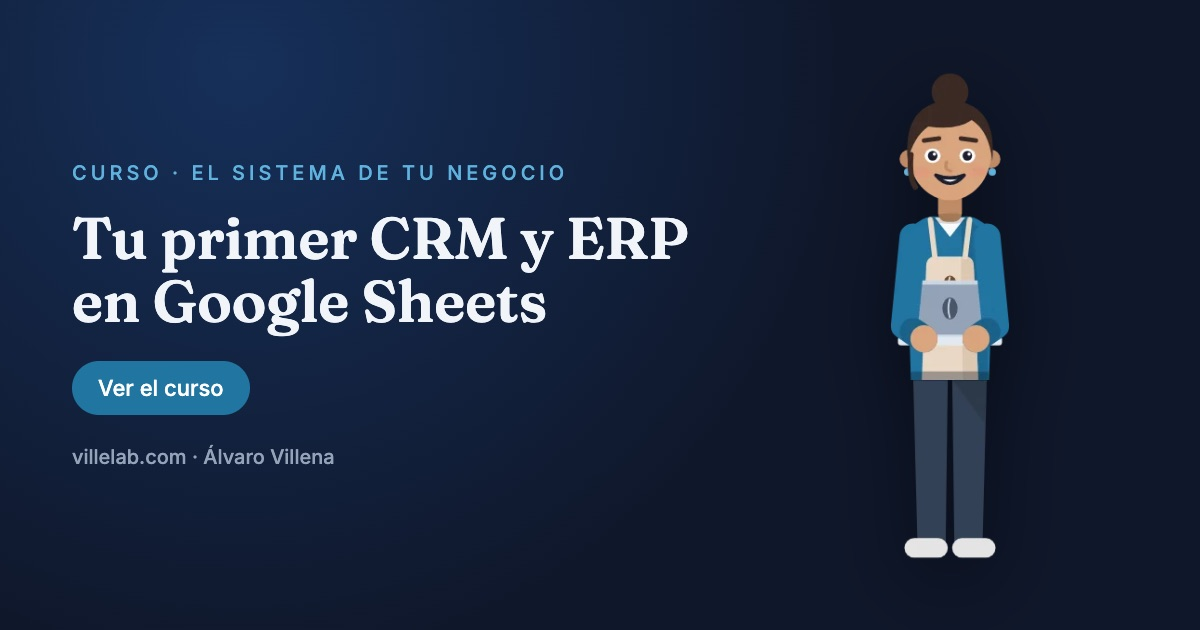
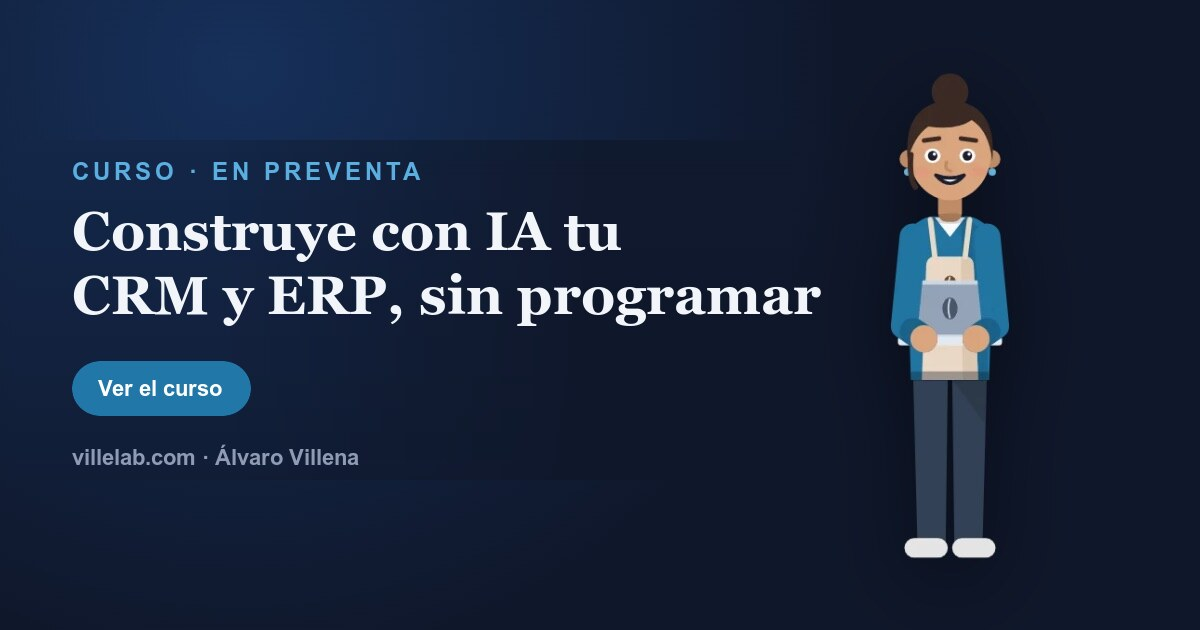
curso: prompts en el área de miembros, puente 5 h/6 semanas, nombre del video, textos con tu IA, OG nuevo

diff --git a/lib/productos/curso/curso.ts b/lib/productos/curso/curso.ts
@@ -42,7 +42,7 @@ export const CURSO = {
   /** Nombre completo para metadata, certificado y referencias desde otros productos. */
   nombreCompleto: 'Construye con IA tu sistema de gestión CRM y ERP para tu negocio, sin programar en 5 horas',
   promesa:
-    'En 6 semanas armas el sistema de tu negocio en una planilla que ya sabes usar: tus clientes y en qué va cada uno, de dónde llegan, los pedidos, la atención, la cobranza y la caja, conectados en un tablero que revisas los lunes en 10 minutos.',
+    'En 6 semanas, con 5 horas de lecciones y tu hoja a tu ritmo, armas con IA (con prompts listos para pegar) el sistema de tu negocio en una planilla que ya sabes usar: tus clientes y en qué va cada uno, de dónde llegan, los pedidos, la atención, la cobranza y la caja, conectados en un tablero que revisas los lunes en 10 minutos.',
   noEsSoftware:
     'No es un software ni una suscripción: es una planilla bien armada, con las fórmulas listas, y rutinas cortas para que el negocio no dependa de tu memoria.',
   formato: [
@@ -69,7 +69,7 @@ export const QUE_ES = {
 
 /** 12-nov-2026 (Álvaro, WA 18:03): el título del curso lleva «con IA»; la IA arma el sistema con los prompts de cada módulo. */
 export const IA_OPCIONAL =
-  'La IA te ayuda a armarlo: cada módulo trae prompts listos para pegar en ChatGPT, Claude o Gemini (tu hoja, las fórmulas, tus mensajes), y los recibes junto con el módulo. No necesitas programar ni saber de IA, y lo que te devuelva lo revisas tú antes de usarlo.';
+  'La IA te ayuda a armarlo: cada módulo trae prompts listos para pegar en ChatGPT, Claude o Gemini (tu hoja, las fórmulas, tus mensajes), y los recibes en tu área de miembros. No necesitas programar ni saber de IA, y lo que te devuelva lo revisas tú antes de usarlo.';
 
 export const CASO = {
   nombre: 'Grano Norte',
@@ -359,7 +359,7 @@ export const FAQ: { p: string; r: string }[] = [
   },
   {
     p: '¿Tengo que saber de inteligencia artificial o de programación?',
-    r: 'No. Cada módulo trae prompts listos: textos para pegar en ChatGPT, Claude o Gemini (la versión gratis sirve) que recibes junto con el módulo (el 0 hoy, uno nuevo cada semana) y te ayudan a armar tu hoja, las fórmulas y tus mensajes. Cambias los datos por los de tu negocio y revisas lo que te devuelva antes de usarlo. Si prefieres no usar IA, la planilla y las plantillas funcionan igual.',
+    r: 'No. Cada módulo trae prompts listos: textos para pegar en ChatGPT, Claude o Gemini (la versión gratis sirve) que recibes en tu área de miembros (los del módulo 0 hoy, y los de cada módulo junto con el módulo) y te ayudan a armar tu hoja, las fórmulas y tus mensajes. Cambias los datos por los de tu negocio y revisas lo que te devuelva antes de usarlo. Si prefieres no usar IA, la planilla y las plantillas funcionan igual.',
   },
   {
     p: '¿Qué recibo al comprar en preventa?',

diff --git a/components/productos/curso/CursoContent.tsx b/components/productos/curso/CursoContent.tsx
@@ -223,7 +223,7 @@ export default function CursoContent() {
             </h1>
             {/* A · control */}
             <div className="exp13-A">
-              <p className="mt-3 max-w-xl text-base text-slate-300 sm:text-lg">5 horas de lecciones en 7 módulos con prompts listos para tu IA; tú armas tu hoja a tu ritmo (2 a 3 h por semana). El módulo 0 es gratis hoy.</p>
+              <p className="mt-3 max-w-xl text-base text-slate-300 sm:text-lg">5 horas de lecciones en 7 módulos con textos listos para pegar en tu IA (prompts); tú armas tu hoja a tu ritmo (2 a 3 h por semana). El módulo 0 es gratis hoy.</p>
               <div className="mt-5 flex flex-col gap-3 sm:flex-row sm:flex-wrap sm:items-center">
                 <BotonCompra ubicacion="hero" />
                 {/* En celular se oculta aquí (se repite en el programa y al final): un solo botón en el primer pantallazo. */}
@@ -233,7 +233,7 @@ export default function CursoContent() {
             </div>
             {/* B · «módulo 0 primero»: el botón principal es gratis; abajo, el formulario a la vista. */}
             <div className="exp13-B">
-              <p className="mt-3 max-w-xl text-base text-slate-300 sm:text-lg">5 horas de lecciones en 7 módulos con prompts listos para tu IA; tú armas tu hoja a tu ritmo (2 a 3 h por semana). El módulo 0 es gratis.</p>
+              <p className="mt-3 max-w-xl text-base text-slate-300 sm:text-lg">5 horas de lecciones en 7 módulos con textos listos para pegar en tu IA (prompts); tú armas tu hoja a tu ritmo (2 a 3 h por semana). El módulo 0 es gratis.</p>
               <div className="mt-5 flex flex-col gap-3 sm:flex-row sm:flex-wrap sm:items-center">
                 <Link
                   href="#parte-gratis-hero"
@@ -287,7 +287,7 @@ export default function CursoContent() {
         <p className="mt-6 max-w-3xl text-slate-300">{CURSO.promesa}</p>
         <p className="mt-3 max-w-3xl text-sm text-slate-400">{CURSO.noEsSoftware}</p>
         {/* Video 8 · venta de la preventa (regrabado con el enfoque CRM/ERP, 8-nov-2026). */}
-        <VideoMarco id="v08-curso-venta" titulo="Tu primer CRM y ERP, en 6 semanas" duracion="49 s" className="mt-10" />
+        <VideoMarco id="v08-curso-venta" titulo="Construye con IA tu sistema CRM y ERP" duracion="49 s" className="mt-10" />
       </section>
 
       {/* Para quién */}

diff --git a/app/(productos)/curso/modulo-6/page.tsx b/app/(productos)/curso/modulo-6/page.tsx
@@ -7,7 +7,7 @@ import { SITE_URL } from '@/lib/productos/seo';
 // para que al compartir el link no herede la tarjeta ni la URL de la portada del sitio.
 export const metadata: Metadata = {
   title: 'Módulo 6 · El tablero que lo junta todo',
-  description: 'Módulo 6 del curso «El sistema de tu negocio: tu primer CRM y ERP en Google Sheets»: tus números del lunes, cómo se conectan las hojas, compartir la planilla con tu equipo, tus rutinas y cuándo pasar a un software. Proyecto final: tu ERP en Google Sheets con su tablero.',
+  description: 'Módulo 6 del curso «Construye con IA tu sistema de gestión CRM y ERP»: tus números del lunes, cómo se conectan las hojas, compartir la planilla con tu equipo, tus rutinas y cuándo pasar a un software. Proyecto final: tu ERP en Google Sheets con su tablero.',
   robots: { index: false, follow: false },
   alternates: { canonical: `${SITE_URL}/curso/modulo-6` },
   openGraph: {
@@ -15,7 +15,7 @@ export const metadata: Metadata = {
     locale: 'es_CL',
     siteName: 'Villelab',
     title: 'Módulo 6 · El tablero que lo junta todo',
-    description: 'Módulo 6 del curso «El sistema de tu negocio: tu primer CRM y ERP en Google Sheets»: tus números del lunes, cómo se conectan las hojas, compartir la planilla con tu equipo, tus rutinas y cuándo pasar a un software. Proyecto final: tu ERP en Google Sheets con su tablero.',
+    description: 'Módulo 6 del curso «Construye con IA tu sistema de gestión CRM y ERP»: tus números del lunes, cómo se conectan las hojas, compartir la planilla con tu equipo, tus rutinas y cuándo pasar a un software. Proyecto final: tu ERP en Google Sheets con su tablero.',
     url: `${SITE_URL}/curso/modulo-6`,
     images: [{ url: `${SITE_URL}/og/curso.jpg`, width: 1200, height: 630, alt: 'El sistema de tu negocio · módulo 6' }],
   },

diff --git a/app/(productos)/curso/modulo-5/page.tsx b/app/(productos)/curso/modulo-5/page.tsx
@@ -7,7 +7,7 @@ import { SITE_URL } from '@/lib/productos/seo';
 // para que al compartir el link no herede la tarjeta ni la URL de la portada del sitio.
 export const metadata: Metadata = {
   title: 'Módulo 5 · Cobrar a tiempo y saber cuánta plata tienes',
-  description: 'Módulo 5 del curso «El sistema de tu negocio: tu primer CRM y ERP en Google Sheets»: la hoja Cobranza con recordatorios, la hoja Caja con el saldo al día, tu caja de las próximas 4 semanas y el margen de tus productos.',
+  description: 'Módulo 5 del curso «Construye con IA tu sistema de gestión CRM y ERP»: la hoja Cobranza con recordatorios, la hoja Caja con el saldo al día, tu caja de las próximas 4 semanas y el margen de tus productos.',
   robots: { index: false, follow: false },
   alternates: { canonical: `${SITE_URL}/curso/modulo-5` },
   openGraph: {
@@ -15,7 +15,7 @@ export const metadata: Metadata = {
     locale: 'es_CL',
     siteName: 'Villelab',
     title: 'Módulo 5 · Cobrar a tiempo y saber cuánta plata tienes',
-    description: 'Módulo 5 del curso «El sistema de tu negocio: tu primer CRM y ERP en Google Sheets»: la hoja Cobranza con recordatorios, la hoja Caja con el saldo al día, tu caja de las próximas 4 semanas y el margen de tus productos.',
+    description: 'Módulo 5 del curso «Construye con IA tu sistema de gestión CRM y ERP»: la hoja Cobranza con recordatorios, la hoja Caja con el saldo al día, tu caja de las próximas 4 semanas y el margen de tus productos.',
     url: `${SITE_URL}/curso/modulo-5`,
     images: [{ url: `${SITE_URL}/og/curso.jpg`, width: 1200, height: 630, alt: 'El sistema de tu negocio · módulo 5' }],
   },

diff --git a/app/(productos)/curso/modulo-4/page.tsx b/app/(productos)/curso/modulo-4/page.tsx
@@ -7,7 +7,7 @@ import { SITE_URL } from '@/lib/productos/seo';
 // para que al compartir el link no herede la tarjeta ni la URL de la portada del sitio.
 export const metadata: Metadata = {
   title: 'Módulo 4 · Responder a tiempo y que vuelvan a comprar',
-  description: 'Módulo 4 del curso «El sistema de tu negocio»: los 3 tipos de mensaje, respuestas listas en WhatsApp Business, la hoja Atención con cada caso hasta cerrarlo, cuándo pasa a una persona y la postventa.',
+  description: 'Módulo 4 del curso «Construye con IA tu sistema de gestión CRM y ERP»: los 3 tipos de mensaje, respuestas listas en WhatsApp Business, la hoja Atención con cada caso hasta cerrarlo, cuándo pasa a una persona y la postventa.',
   robots: { index: false, follow: false },
   alternates: { canonical: `${SITE_URL}/curso/modulo-4` },
   openGraph: {
@@ -15,7 +15,7 @@ export const metadata: Metadata = {
     locale: 'es_CL',
     siteName: 'Villelab',
     title: 'Módulo 4 · Responder a tiempo y que vuelvan a comprar',
-    description: 'Módulo 4 del curso «El sistema de tu negocio»: los 3 tipos de mensaje, respuestas listas en WhatsApp Business, la hoja Atención con cada caso hasta cerrarlo, cuándo pasa a una persona y la postventa.',
+    description: 'Módulo 4 del curso «Construye con IA tu sistema de gestión CRM y ERP»: los 3 tipos de mensaje, respuestas listas en WhatsApp Business, la hoja Atención con cada caso hasta cerrarlo, cuándo pasa a una persona y la postventa.',
     url: `${SITE_URL}/curso/modulo-4`,
     images: [{ url: `${SITE_URL}/og/curso.jpg`, width: 1200, height: 630, alt: 'El sistema de tu negocio · módulo 4' }],
   },

diff --git a/app/(productos)/curso/modulo-3/page.tsx b/app/(productos)/curso/modulo-3/page.tsx
@@ -7,7 +7,7 @@ import { SITE_URL } from '@/lib/productos/seo';
 // para que al compartir el link no herede la tarjeta ni la URL de la portada del sitio.
 export const metadata: Metadata = {
   title: 'Módulo 3 · Cada pedido, en una fila',
-  description: 'Módulo 3 del curso «El sistema de tu negocio»: tus procesos escritos en pasos, la hoja Pedidos con cada pedido en una fila, el checklist de entrega, el estado de cada pedido y el resumen del día en 5 minutos.',
+  description: 'Módulo 3 del curso «Construye con IA tu sistema de gestión CRM y ERP»: tus procesos escritos en pasos, la hoja Pedidos con cada pedido en una fila, el checklist de entrega, el estado de cada pedido y el resumen del día en 5 minutos.',
   robots: { index: false, follow: false },
   alternates: { canonical: `${SITE_URL}/curso/modulo-3` },
   openGraph: {
@@ -15,7 +15,7 @@ export const metadata: Metadata = {
     locale: 'es_CL',
     siteName: 'Villelab',
     title: 'Módulo 3 · Cada pedido, en una fila',
-    description: 'Módulo 3 del curso «El sistema de tu negocio»: tus procesos escritos en pasos, la hoja Pedidos con cada pedido en una fila, el checklist de entrega, el estado de cada pedido y el resumen del día en 5 minutos.',
+    description: 'Módulo 3 del curso «Construye con IA tu sistema de gestión CRM y ERP»: tus procesos escritos en pasos, la hoja Pedidos con cada pedido en una fila, el checklist de entrega, el estado de cada pedido y el resumen del día en 5 minutos.',
     url: `${SITE_URL}/curso/modulo-3`,
     images: [{ url: `${SITE_URL}/og/curso.jpg`, width: 1200, height: 630, alt: 'El sistema de tu negocio · módulo 3' }],
   },

diff --git a/app/(productos)/curso/modulo-1/page.tsx b/app/(productos)/curso/modulo-1/page.tsx
@@ -7,7 +7,7 @@ import { SITE_URL } from '@/lib/productos/seo';
 // para que al compartir el link no herede la tarjeta ni la URL de la portada del sitio.
 export const metadata: Metadata = {
   title: 'Módulo 1 · Tu primer CRM: ningún cliente se te pierde',
-  description: 'Módulo 1 del curso «El sistema de tu negocio»: tu hoja Clientes (tu primer CRM en Google Sheets), mensajes de seguimiento, la propuesta de una página y tu embudo contado desde la planilla.',
+  description: 'Módulo 1 del curso «Construye con IA tu sistema de gestión CRM y ERP»: tu hoja Clientes (tu primer CRM en Google Sheets), mensajes de seguimiento, la propuesta de una página y tu embudo contado desde la planilla.',
   robots: { index: false, follow: false },
   alternates: { canonical: `${SITE_URL}/curso/modulo-1` },
   openGraph: {
@@ -15,7 +15,7 @@ export const metadata: Metadata = {
     locale: 'es_CL',
     siteName: 'Villelab',
     title: 'Módulo 1 · Tu primer CRM: ningún cliente se te pierde',
-    description: 'Módulo 1 del curso «El sistema de tu negocio»: tu hoja Clientes (tu primer CRM en Google Sheets), mensajes de seguimiento, la propuesta de una página y tu embudo contado desde la planilla.',
+    description: 'Módulo 1 del curso «Construye con IA tu sistema de gestión CRM y ERP»: tu hoja Clientes (tu primer CRM en Google Sheets), mensajes de seguimiento, la propuesta de una página y tu embudo contado desde la planilla.',
     url: `${SITE_URL}/curso/modulo-1`,
     images: [{ url: `${SITE_URL}/og/curso.jpg`, width: 1200, height: 630, alt: 'El sistema de tu negocio · módulo 1' }],
   },

diff --git a/app/(productos)/curso/modulo-2/page.tsx b/app/(productos)/curso/modulo-2/page.tsx
@@ -7,7 +7,7 @@ import { SITE_URL } from '@/lib/productos/seo';
 // para que al compartir el link no herede la tarjeta ni la URL de la portada del sitio.
 export const metadata: Metadata = {
   title: 'Módulo 2 · De dónde llegan tus clientes',
-  description: 'Módulo 2 del curso «El sistema de tu negocio»: tu mensaje en una frase, tus 3 temas, un calendario de contenido de 4 semanas y la hoja Origen, que cuenta cuántos clientes te trae cada canal.',
+  description: 'Módulo 2 del curso «Construye con IA tu sistema de gestión CRM y ERP»: tu mensaje en una frase, tus 3 temas, un calendario de contenido de 4 semanas y la hoja Origen, que cuenta cuántos clientes te trae cada canal.',
   robots: { index: false, follow: false },
   alternates: { canonical: `${SITE_URL}/curso/modulo-2` },
   openGraph: {
@@ -15,7 +15,7 @@ export const metadata: Metadata = {
     locale: 'es_CL',
     siteName: 'Villelab',
     title: 'Módulo 2 · De dónde llegan tus clientes',
-    description: 'Módulo 2 del curso «El sistema de tu negocio»: tu mensaje en una frase, tus 3 temas, un calendario de contenido de 4 semanas y la hoja Origen, que cuenta cuántos clientes te trae cada canal.',
+    description: 'Módulo 2 del curso «Construye con IA tu sistema de gestión CRM y ERP»: tu mensaje en una frase, tus 3 temas, un calendario de contenido de 4 semanas y la hoja Origen, que cuenta cuántos clientes te trae cada canal.',
     url: `${SITE_URL}/curso/modulo-2`,
     images: [{ url: `${SITE_URL}/og/curso.jpg`, width: 1200, height: 630, alt: 'El sistema de tu negocio · módulo 2' }],
   },

diff --git a/components/productos/curso/Modulo3Content.tsx b/components/productos/curso/Modulo3Content.tsx
@@ -278,7 +278,7 @@ function LeccionPedidos() {
         </summary>
         <div className="border-t border-white/10 px-4 pb-4">
           <p className="mt-3 text-sm text-slate-300">
-            Si se te juntaron mensajes sin anotar, puedes pegarlos en un chat de IA y pedirle las filas. Revisa cada fila antes de pegarla en la hoja: la IA puede inventar una cantidad o una fecha. Sin IA, el método funciona igual.
+            Con tu IA: si se te juntaron mensajes sin anotar, pégalos en un chat y pídele las filas. Revisa cada fila antes de pegarla en la hoja: la IA puede inventar una cantidad o una fecha. Sin IA, el método funciona igual.
           </p>
           <BloqueCopiar titulo="Instrucción · mensajes a filas" texto={montado ? prompt : ''} className="mt-3" nota="Donde diga «FALTA», le preguntas al cliente." />
         </div>
@@ -586,7 +586,7 @@ function LeccionResumen() {
       ) : null}
       <Freno>El resumen ordena; no responde ni cambia nada solo. Las decisiones del día las toma una persona.</Freno>
       <p className="mt-4 text-sm text-slate-400">
-        Opcional: si usas ChatGPT o Claude, puedes pegarle tus filas y pedirle el resumen en las tres preguntas. Lo revisas tú antes de avisarle a nadie. Leerlo directo en la hoja toma lo mismo.
+        Con tu IA: pega tus filas y pídele el resumen en las tres preguntas. Lo revisas tú antes de avisarle a nadie. Leerlo directo en la hoja toma lo mismo.
       </p>
       <div className="mt-4">
         <BotonDescarga

diff --git a/app/(main)/reels/page.tsx b/app/(main)/reels/page.tsx
@@ -110,13 +110,13 @@ const REELS: Reel[] = [
   {
     id: 'v17-anuncio-curso',
     numero: 17,
-    titulo: 'Tu primer CRM y ERP en Google Sheets',
+    titulo: 'Construye con IA tu sistema CRM y ERP',
     destinoA: 'Perfil (link en la bio)',
     destinoB: '/curso',
     duracion: '26 s',
     guion: [
       '¿Tus clientes viven en el WhatsApp y los pedidos en tu cabeza? No es desorden: nada está anotado en un solo lugar.',
-      'En 6 semanas armas tu primer CRM y ERP en Google Sheets: clientes, pedidos, cobranza y caja en una planilla, con un tablero que miras los lunes. Sin pagar software.',
+      'En 6 semanas, con 5 horas de lecciones y tu hoja a tu ritmo, armas con IA tu CRM y ERP en Google Sheets: clientes, pedidos, cobranza y caja en una planilla, con un tablero que miras los lunes. Sin pagar software.',
       'Está en preventa a precio fundador. Link en mi perfil.',
     ],
   },

diff --git a/lib/productos/curso/guiones.ts b/lib/productos/curso/guiones.ts
@@ -354,7 +354,7 @@ const CRUDOS: Record<string, { titulo: string; escenas: Escena[] }> = {
   // ─── Videos de la v1.0 regrabados con el enfoque v1.1 (8-nov-2026) ─────────────
   // v10 no se regrabó (fuera de alcance): su entrada, si existe, es solo guion.
   'v08-curso-venta': {
-    titulo: 'Tu primer CRM y ERP, en 6 semanas',
+    titulo: 'Construye con IA tu sistema CRM y ERP',
     escenas: [
       A('Álvaro a cámara (oficina de noche, camisa azul); sigue en gráficos', '¿Tus clientes viven en el WhatsApp y los pedidos en tu cabeza? No es desorden: nada está anotado en un solo lugar.'),
       G('Una planilla vacía; aparecen dos tarjetas: CRM y ERP', 'En este curso armas tu primer CRM y ERP en Google Sheets. El CRM es el lugar donde ves a todos tus clientes y en qué va cada uno. El ERP es donde se juntan ventas, pedidos, cobranza y caja.'),

diff --git a/app/(main)/curso/page.tsx b/app/(main)/curso/page.tsx
@@ -46,8 +46,8 @@ const JSON_LD = [
   faqPage(FAQ.map((f) => ({ q: f.p, a: f.r }))),
   videoObject({
     id: 'v08-curso-venta',
-    nombre: 'Tu primer CRM y ERP, en 6 semanas',
-    descripcion: 'Álvaro Villena presenta el curso en preventa: en 6 semanas armas tu primer CRM y ERP en Google Sheets, una hoja por semana con las fórmulas listas, hasta un tablero con lo que vendiste, lo que te deben y cuánta caja tienes.',
+    nombre: 'Construye con IA tu sistema CRM y ERP',
+    descripcion: 'Álvaro Villena presenta el curso en preventa: en 6 semanas, con 5 horas de lecciones y tu hoja a tu ritmo, armas con IA tu CRM y ERP en Google Sheets, una hoja por semana con las fórmulas listas, hasta un tablero con lo que vendiste, lo que te deben y cuánta caja tienes.',
     segundos: 49,
     pagina: '/curso',
   }),
